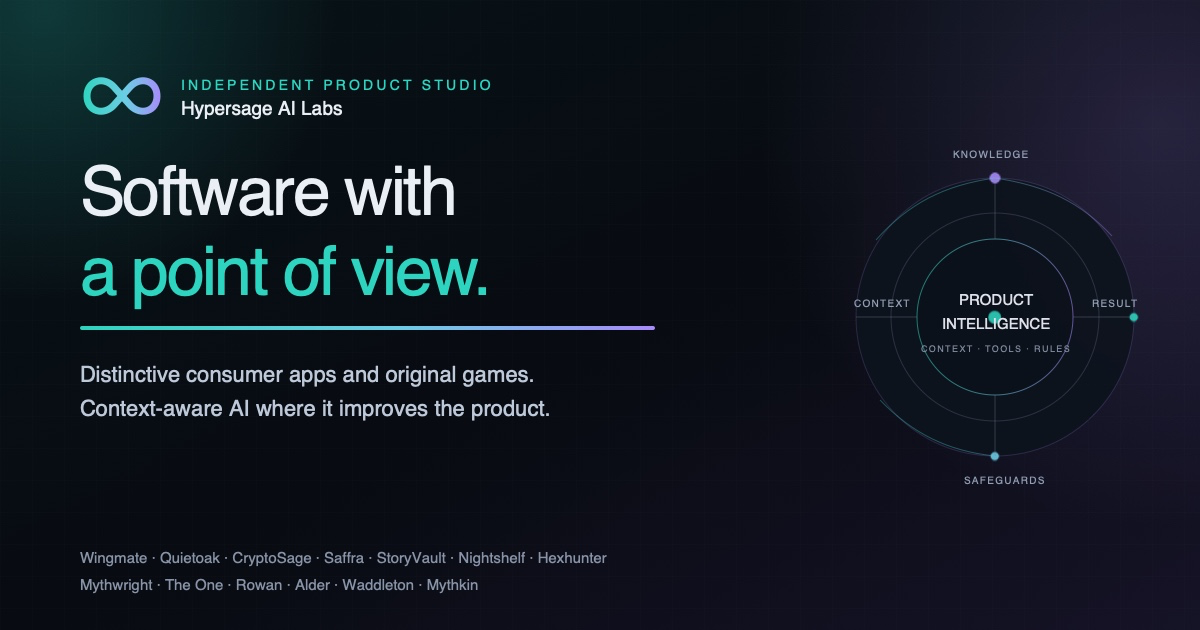
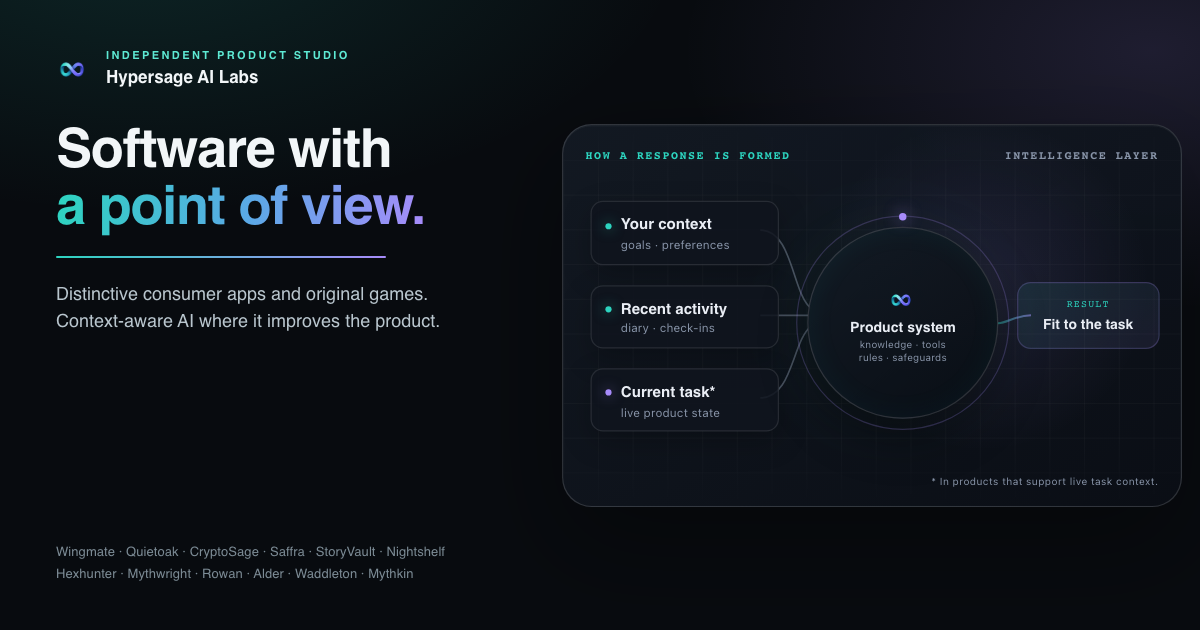
Render the og-image FROM the site instead of drawing it beside the site
The link preview and the page disagreed, which is what Vanus saw in a message
bubble. Two concrete drifts:

* DIFFERENT DIAGRAM. The preview showed an orbital — "PRODUCT INTELLIGENCE"
  ringed by KNOWLEDGE / CONTEXT / RESULT / SAFEGUARDS. The page shows a
  left-to-right pipeline: three input cards -> Product system -> Result. Two
  different pictures making two different claims about how the product works.
* A PRODUCT THAT DOES NOT EXIST. It listed thirteen apps including "The One".
  The site has twelve and "The One" is not one of them.

tools/build_og.py does not draw anything. It lifts index.html's own <style>
block and its own `.context-engine` figure, drops them on a 1200x630 canvas and
screenshots it with Playwright, so the diagram in the preview IS the diagram on
the page — same DOM, same CSS. The product list is read from the page's
`id="product-*"` anchors, so it cannot go stale silently; an unknown id is a
hard error, and `--check` verifies without rendering.

Two things learned while building it, both in comments:
* Render from the SITE ROOT, not tools/ — relative `logo.png` otherwise resolves
  to nothing and both marks render as broken-image glyphs.
* Judge it downscaled to ~460px, not at 1200. The lifted figure carries real
  labels and turned to mush at preview size until it was scaled up; the old
  orbital art survived shrinking only because it said nothing.

diff --git a/index.html b/index.html
@@ -17,7 +17,7 @@
   <meta property="og:description" content="Hypersage is an independent studio building distinctive consumer apps and original games, with context-aware AI where it improves the product.">
   <meta property="og:url" content="https://hypersage.ai/">
   <meta property="og:site_name" content="Hypersage AI Labs">
-  <meta property="og:image" content="https://hypersage.ai/og-image.png?v=20260806c">
+  <meta property="og:image" content="https://hypersage.ai/og-image.png?v=20260810w">
   <meta property="og:image:type" content="image/png">
   <meta property="og:image:width" content="1200">
   <meta property="og:image:height" content="630">
@@ -25,7 +25,7 @@
   <meta name="twitter:card" content="summary_large_image">
   <meta name="twitter:title" content="Hypersage AI Labs — Independent Product Studio">
   <meta name="twitter:description" content="Hypersage is an independent studio building distinctive consumer apps and original games, with context-aware AI where it improves the product.">
-  <meta name="twitter:image" content="https://hypersage.ai/og-image.png?v=20260806c">
+  <meta name="twitter:image" content="https://hypersage.ai/og-image.png?v=20260810w">
   <meta name="twitter:image:alt" content="Hypersage AI Labs — an independent product studio">
 
   <link rel="icon" type="image/png" href="favicon.png">
@@ -43,7 +43,7 @@
         "legalName": "HyperSage AI Labs LLC",
         "url": "https://hypersage.ai/",
         "logo": "https://hypersage.ai/apple-touch-icon.png",
-        "image": "https://hypersage.ai/og-image.png?v=20260806c",
+        "image": "https://hypersage.ai/og-image.png?v=20260810w",
         "description": "An independent studio building distinctive consumer apps and original games, with context-aware AI where it improves the product.",
         "email": "support@hypersage.ai",
         "address": { "@type": "PostalAddress", "addressRegion": "DE", "addressCountry": "US" },

diff --git a/tools/build_og.py b/tools/build_og.py
@@ -1,0 +1,154 @@
+"""Render hypersage.ai's og-image FROM THE SITE'S OWN MARKUP.
+
+    python3 tools/build_og.py            # writes og-image.png (1200x630)
+    python3 tools/build_og.py --check    # fail if the product list has drifted
+
+WHY THIS IS A RENDERER AND NOT A DESIGN FILE
+--------------------------------------------
+The previous og-image was drawn separately from the site and drifted, exactly the
+way a second copy of anything drifts:
+
+  * It showed an ORBITAL diagram — "PRODUCT INTELLIGENCE" ringed by KNOWLEDGE /
+    CONTEXT / RESULT / SAFEGUARDS. The site shows a left-to-right PIPELINE:
+    three input cards -> Product system -> Result. Two different diagrams making
+    two different claims about how the product works. Someone shares the link,
+    sees one thing, clicks, and sees another.
+  * It listed THIRTEEN products including "The One". The site has twelve, and
+    "The One" is not among them.
+
+So this does not draw anything. It lifts the site's own <style> block and its
+own hero markup, drops them on a 1200x630 canvas, and screenshots it. The
+diagram in the preview is the diagram on the page because it is literally the
+same DOM. The product list is read out of the page's `id="product-*"` anchors,
+so adding or removing a product updates the preview on the next build and
+`--check` fails loudly if someone forgets.
+"""
+from __future__ import annotations
+
+import argparse
+import pathlib
+import re
+import sys
+
+ROOT = pathlib.Path(__file__).resolve().parent.parent
+INDEX = ROOT / "index.html"
+OUT = ROOT / "og-image.png"
+W, H = 1200, 630
+
+# Display names for the product ids found on the page. Anything on the page but
+# missing here is a hard error rather than a silently-skipped tile.
+NAMES = {
+    "wingmate": "Wingmate", "quietoak": "Quietoak", "cryptosage": "CryptoSage",
+    "saffra": "Saffra", "storyvault": "StoryVault", "nightshelf": "Nightshelf",
+    "hexhunter": "Hexhunter", "mythwright": "Mythwright", "rowan": "Rowan",
+    "alder": "Alder", "waddleton": "Waddleton", "mythkin": "Mythkin",
+}
+
+
+def site_parts() -> tuple[str, str, list[str]]:
+    html = INDEX.read_text()
+    style = re.search(r"<style>(.*?)</style>", html, re.S)
+    if not style:
+        sys.exit("no <style> block in index.html")
+    fig = re.search(r'(<figure class="context-engine".*?</figure>)', html, re.S)
+    if not fig:
+        sys.exit("no .context-engine figure in index.html — the hero diagram moved")
+    ids = re.findall(r'id="product-([a-z]+)"', html)
+    seen: list[str] = []
+    for i in ids:
+        if i not in seen:
+            seen.append(i)
+    unknown = [i for i in seen if i not in NAMES]
+    if unknown:
+        sys.exit(f"product(s) on the page with no display name: {unknown} — add to NAMES")
+    return style.group(1), fig.group(1), [NAMES[i] for i in seen]
+
+
+def build_html() -> str:
+    style, figure, products = site_parts()
+    half = (len(products) + 1) // 2
+    row1 = " · ".join(products[:half])
+    row2 = " · ".join(products[half:])
+    return f"""<!doctype html><html><head><meta charset="utf-8"><style>{style}</style>
+<style>
+  html,body {{ margin:0; padding:0; width:{W}px; height:{H}px; overflow:hidden; }}
+  body {{ background:#080B0F; }}
+  .og {{ position:relative; width:{W}px; height:{H}px;
+         background:
+           radial-gradient(900px 460px at 12% -10%, rgba(45,212,191,.13), transparent 60%),
+           radial-gradient(760px 420px at 96% 8%, rgba(167,139,250,.14), transparent 62%),
+           #080B0F;
+         padding:48px 56px; box-sizing:border-box; display:flex; gap:24px; }}
+  .og-left {{ width:520px; flex:0 0 520px; }}
+  .og-right {{ flex:1; display:flex; align-items:center; justify-content:center; }}
+  .og-brand {{ display:flex; align-items:center; gap:12px; margin-bottom:30px; }}
+  .og-brand img {{ width:38px; height:42px; }}
+  .og-brand .t1 {{ font: 600 11px/1.1 ui-sans-serif,-apple-system,'Segoe UI',sans-serif;
+                   letter-spacing:.22em; text-transform:uppercase; color:#5EEAD4; }}
+  .og-brand .t2 {{ font: 700 17px/1.3 ui-sans-serif,-apple-system,'Segoe UI',sans-serif; color:#F2F6F8; margin-top:3px; }}
+  .og h1 {{ font: 800 54px/1.06 ui-sans-serif,-apple-system,'Segoe UI',sans-serif;
+            color:#F2F6F8; margin:0 0 22px; letter-spacing:-.022em; }}
+  /* The SAME gradient the live headline uses — teal -> blue -> violet. The old
+     preview flattened this to one teal, which is half the brand. */
+  .og h1 .grad {{ background:linear-gradient(96deg,#2DD4BF 0%,#5AA9E6 52%,#A78BFA 100%);
+                  -webkit-background-clip:text; background-clip:text; color:transparent; }}
+  .og .rule {{ width:330px; height:2px; margin:0 0 22px;
+               background:linear-gradient(90deg,#2DD4BF,#A78BFA); border-radius:2px; }}
+  .og p {{ font: 400 18px/1.5 ui-sans-serif,-apple-system,'Segoe UI',sans-serif;
+           color:#B9C6CE; margin:0; max-width:470px; }}
+  .og .apps {{ position:absolute; left:56px; bottom:44px; font: 400 13px/1.75 ui-sans-serif,-apple-system,sans-serif;
+               color:#7C8B95; letter-spacing:.005em; }}
+  /* The figure is the site's, so pin only its BOX — never its internals.
+     Scaled UP, and that is the whole point: a link preview is rendered ~460px
+     wide in a message bubble, and at that size the pipeline's three input cards
+     turned to mush. The old orbital art survived shrinking because it was one
+     bold ring saying nothing; this one carries real labels, so it has to be
+     big enough to still read them. Checked by downscaling to preview width, not
+     by looking at the 1200px render. */
+  .og-right .context-engine {{ transform:scale(1.24); transform-origin:center; margin:0; }}
+</style></head><body>
+<div class="og">
+  <div class="og-left">
+    <div class="og-brand">
+      <img src="logo.png" alt="">
+      <div><div class="t1">Independent Product Studio</div><div class="t2">Hypersage AI Labs</div></div>
+    </div>
+    <h1>Software with<br><span class="grad">a point of view.</span></h1>
+    <div class="rule"></div>
+    <p>Distinctive consumer apps and original games.<br>Context-aware AI where it improves the product.</p>
+  </div>
+  <div class="og-right">{figure}</div>
+  <div class="apps">{row1}<br>{row2}</div>
+</div>
+</body></html>"""
+
+
+def main() -> None:
+    ap = argparse.ArgumentParser()
+    ap.add_argument("--check", action="store_true",
+                    help="verify the product list resolves; render nothing")
+    args = ap.parse_args()
+    _, _, products = site_parts()
+    print(f"{len(products)} products from index.html: {', '.join(products)}")
+    if args.check:
+        return
+    # Written to the SITE ROOT, not tools/, so every relative asset in the
+    # lifted markup (logo.png, and anything added to the hero later) resolves
+    # exactly as it does on the live page. Rendering from tools/ silently broke
+    # both logos into placeholder glyphs.
+    tmp = ROOT / "_og_render.html"
+    tmp.write_text(build_html())
+    from playwright.sync_api import sync_playwright
+    with sync_playwright() as pw:
+        b = pw.chromium.launch()
+        pg = b.new_page(viewport={"width": W, "height": H}, device_scale_factor=1)
+        pg.goto(tmp.as_uri())
+        pg.wait_for_timeout(700)          # let the figure's CSS animation settle
+        pg.screenshot(path=str(OUT))
+        b.close()
+    tmp.unlink(missing_ok=True)
+    print(f"wrote {OUT.name}  {OUT.stat().st_size // 1024} KB")
+
+
+if __name__ == "__main__":
+    main()
